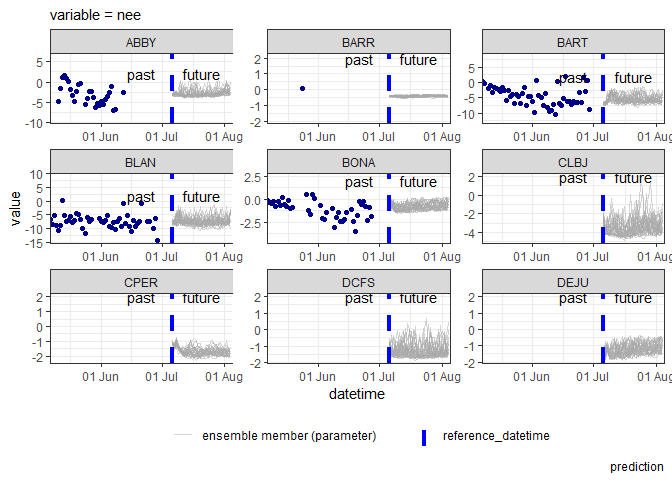
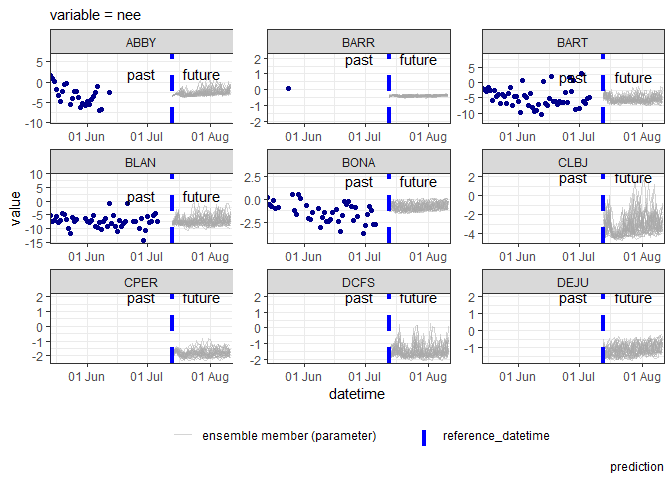
update rendered md

diff --git a/NEON_forecast_challenge_workshop_terrestrial.md b/NEON_forecast_challenge_workshop_terrestrial.md
@@ -118,6 +118,11 @@ If you do not wish to run the code yourself you can follow along via the
 rendered markdown document
 (NEON_forecast_challenge_workshop_terrestrial.md).
 
+Note: if you are familiar with and comfortable using Docker containers
+you can run this easily using the `eco4cast/rocker-neon4cast` Docker
+image which has all the packages pre-installed in a stable Linux
+environment.
+
 # 2 Introduction to NEON forecast challenge
 
 The EFI RCN NEON Forecast Challenge asks the scientific community to
@@ -411,16 +416,16 @@ noaa_future_example
     ## # A tibble: 43,200 × 13
     ##    site_id prediction variable      height horizon parameter reference_datetime 
     ##    <chr>        <dbl> <chr>         <chr>    <dbl>     <int> <dttm>             
-    ##  1 HARV           0   surface_down… surfa…      24         1 2023-07-05 00:00:00
-    ##  2 HARV           0   surface_down… surfa…      25         1 2023-07-05 00:00:00
-    ##  3 HARV           0   surface_down… surfa…      26         1 2023-07-05 00:00:00
-    ##  4 HARV           0   surface_down… surfa…      27         1 2023-07-05 00:00:00
-    ##  5 HARV           0   surface_down… surfa…      28         1 2023-07-05 00:00:00
-    ##  6 HARV           0   surface_down… surfa…      29         1 2023-07-05 00:00:00
-    ##  7 HARV           0   surface_down… surfa…      30         1 2023-07-05 00:00:00
-    ##  8 HARV           0   surface_down… surfa…      31         1 2023-07-05 00:00:00
-    ##  9 HARV           0   surface_down… surfa…      32         1 2023-07-05 00:00:00
-    ## 10 HARV          14.4 surface_down… surfa…      33         1 2023-07-05 00:00:00
+    ##  1 HARV          0    surface_down… surfa…      24         1 2023-07-12 00:00:00
+    ##  2 HARV          0    surface_down… surfa…      25         1 2023-07-12 00:00:00
+    ##  3 HARV          0    surface_down… surfa…      26         1 2023-07-12 00:00:00
+    ##  4 HARV          0    surface_down… surfa…      27         1 2023-07-12 00:00:00
+    ##  5 HARV          0    surface_down… surfa…      28         1 2023-07-12 00:00:00
+    ##  6 HARV          0    surface_down… surfa…      29         1 2023-07-12 00:00:00
+    ##  7 HARV          0    surface_down… surfa…      30         1 2023-07-12 00:00:00
+    ##  8 HARV          0    surface_down… surfa…      31         1 2023-07-12 00:00:00
+    ##  9 HARV          0    surface_down… surfa…      32         1 2023-07-12 00:00:00
+    ## 10 HARV          4.25 surface_down… surfa…      33         1 2023-07-12 00:00:00
     ## # ℹ 43,190 more rows
     ## # ℹ 6 more variables: forecast_valid <chr>, datetime <dttm>, longitude <dbl>,
     ## #   latitude <dbl>, family <chr>, start_date <chr>
@@ -447,16 +452,16 @@ noaa_future_daily_example
     ## # Groups:   datetime, site_id, parameter [900]
     ##    datetime   site_id air_temperature shortwave parameter
     ##    <date>     <chr>             <dbl>     <dbl>     <int>
-    ##  1 2023-07-06 HARV               25.5      263.         1
-    ##  2 2023-07-06 HARV               25.3      298.         2
-    ##  3 2023-07-06 HARV               24.2      242.         3
-    ##  4 2023-07-06 HARV               24.9      252.         4
-    ##  5 2023-07-06 HARV               24.6      264.         5
-    ##  6 2023-07-06 HARV               24.6      253.         6
-    ##  7 2023-07-06 HARV               24.4      206.         7
-    ##  8 2023-07-06 HARV               25.6      310.         8
-    ##  9 2023-07-06 HARV               24.2      313.         9
-    ## 10 2023-07-06 HARV               23.5      202.        10
+    ##  1 2023-07-13 HARV               22.2      257.         1
+    ##  2 2023-07-13 HARV               20.8      186.         2
+    ##  3 2023-07-13 HARV               19.6      169.         3
+    ##  4 2023-07-13 HARV               21.5      249.         4
+    ##  5 2023-07-13 HARV               21.4      228.         5
+    ##  6 2023-07-13 HARV               22.1      247          6
+    ##  7 2023-07-13 HARV               20.5      144.         7
+    ##  8 2023-07-13 HARV               22.3      247.         8
+    ##  9 2023-07-13 HARV               21.1      208.         9
+    ## 10 2023-07-13 HARV               21.4      195.        10
     ## # ℹ 890 more rows
 
 Now we have a timeseries of historic data and a 30 member ensemble
@@ -493,12 +498,12 @@ tail(targets_lm_example)
     ## # A tibble: 6 × 5
     ##   datetime   site_id    nee air_temperature shortwave
     ##   <date>     <chr>    <dbl>           <dbl>     <dbl>
-    ## 1 2023-06-24 HARV    -2.32             18.6      89.6
-    ## 2 2023-06-25 HARV    -5.99             22.3     282. 
-    ## 3 2023-06-26 HARV    -2.43             20.3     262. 
-    ## 4 2023-06-27 HARV    -4.21             19.0     138. 
-    ## 5 2023-06-28 HARV     0.624            18.9     143. 
-    ## 6 2023-06-29 HARV    -5.91             19.1     269
+    ## 1 2023-06-29 HARV     -5.91            19.1      267.
+    ## 2 2023-06-30 HARV    -11.2             20.7      284.
+    ## 3 2023-07-01 HARV    -11.1             20.6      292.
+    ## 4 2023-07-04 HARV     -3.30            20.5      181.
+    ## 5 2023-07-05 HARV    -10.1             23.1      328.
+    ## 6 2023-07-06 HARV     -9.07            24.0      426.
 
 To fit the linear model we use the base R `lm()` but there are also
 methods to fit linear (and non-linear) models in the `fable::` package.
@@ -509,10 +514,10 @@ linear model for each site. For example, at HARV forest (HARV), this
 would look like:
 
 ``` r
-#Fit linear model based on past data: water temperature = m * air temperature + b
+#Fit linear model based on past data: NEE = a * air temperature + b * shortwave
 fit <- lm(targets_lm_example$nee ~ targets_lm_example$air_temperature + targets_lm_example$shortwave)
     
-# use linear regression to forecast water temperature for each ensemble member
+# use linear regression to forecast NEE for each ensemble member
 forecasted_nee <- fit$coefficients[1] + 
   (fit$coefficients[2] * noaa_future_daily_example$air_temperature) + 
   (fit$coefficients[3] * noaa_future_daily_example$shortwave)
@@ -667,7 +672,7 @@ for(i in 1:length(site_data$field_site_id)) {
   #Fit linear model based on past data
   fit <- lm(targets_lm$nee ~ targets_lm$air_temperature + targets_lm$shortwave)
     
-  # use linear regression to forecast water temperature for each ensemble member
+  # use linear regression to forecast NEE for each ensemble member
   forecasted_nee <- fit$coefficients[1] + 
     (fit$coefficients[2] * noaa_future_daily$air_temperature) + 
     (fit$coefficients[3] * noaa_future_daily$shortwave)
@@ -857,7 +862,7 @@ forecast_file_1 <- paste(theme, date, forecast_name_1, sep = '-')
 forecast_file_1
 ```
 
-    ## [1] "terrestrial_daily-2023-07-05-ESA_example.csv"
+    ## [1] "terrestrial_daily-2023-07-12-ESA_example.csv"
 
 ``` r
 write_csv(lm_forecast_EFI, forecast_file_1)
@@ -865,7 +870,7 @@ write_csv(lm_forecast_EFI, forecast_file_1)
 neon4cast::forecast_output_validator(forecast_file_1)
 ```
 
-    ## terrestrial_daily-2023-07-05-ESA_example.csv
+    ## terrestrial_daily-2023-07-12-ESA_example.csv
 
     ## ✔ file name is correct
     ## ✔ forecasted variables found correct variable + prediction column
